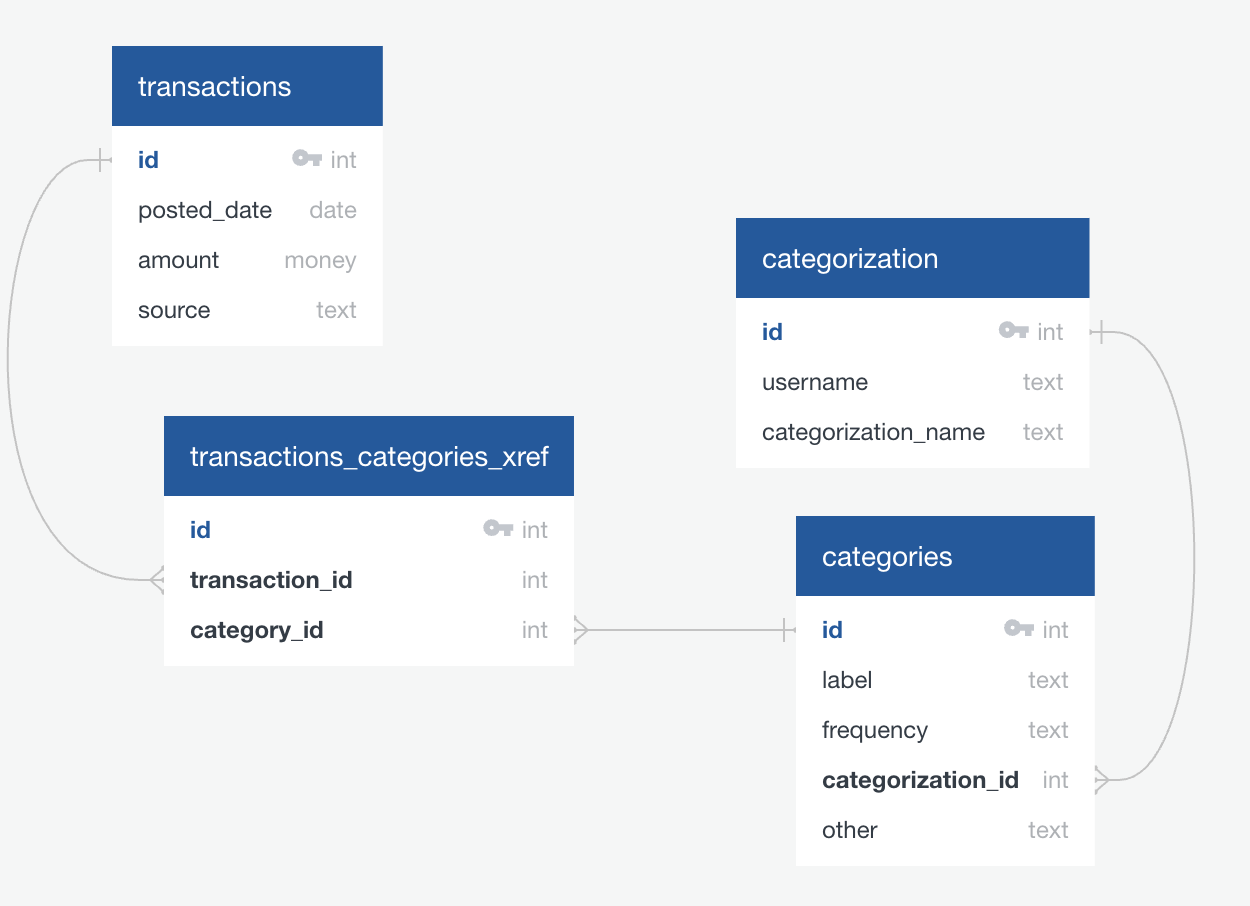
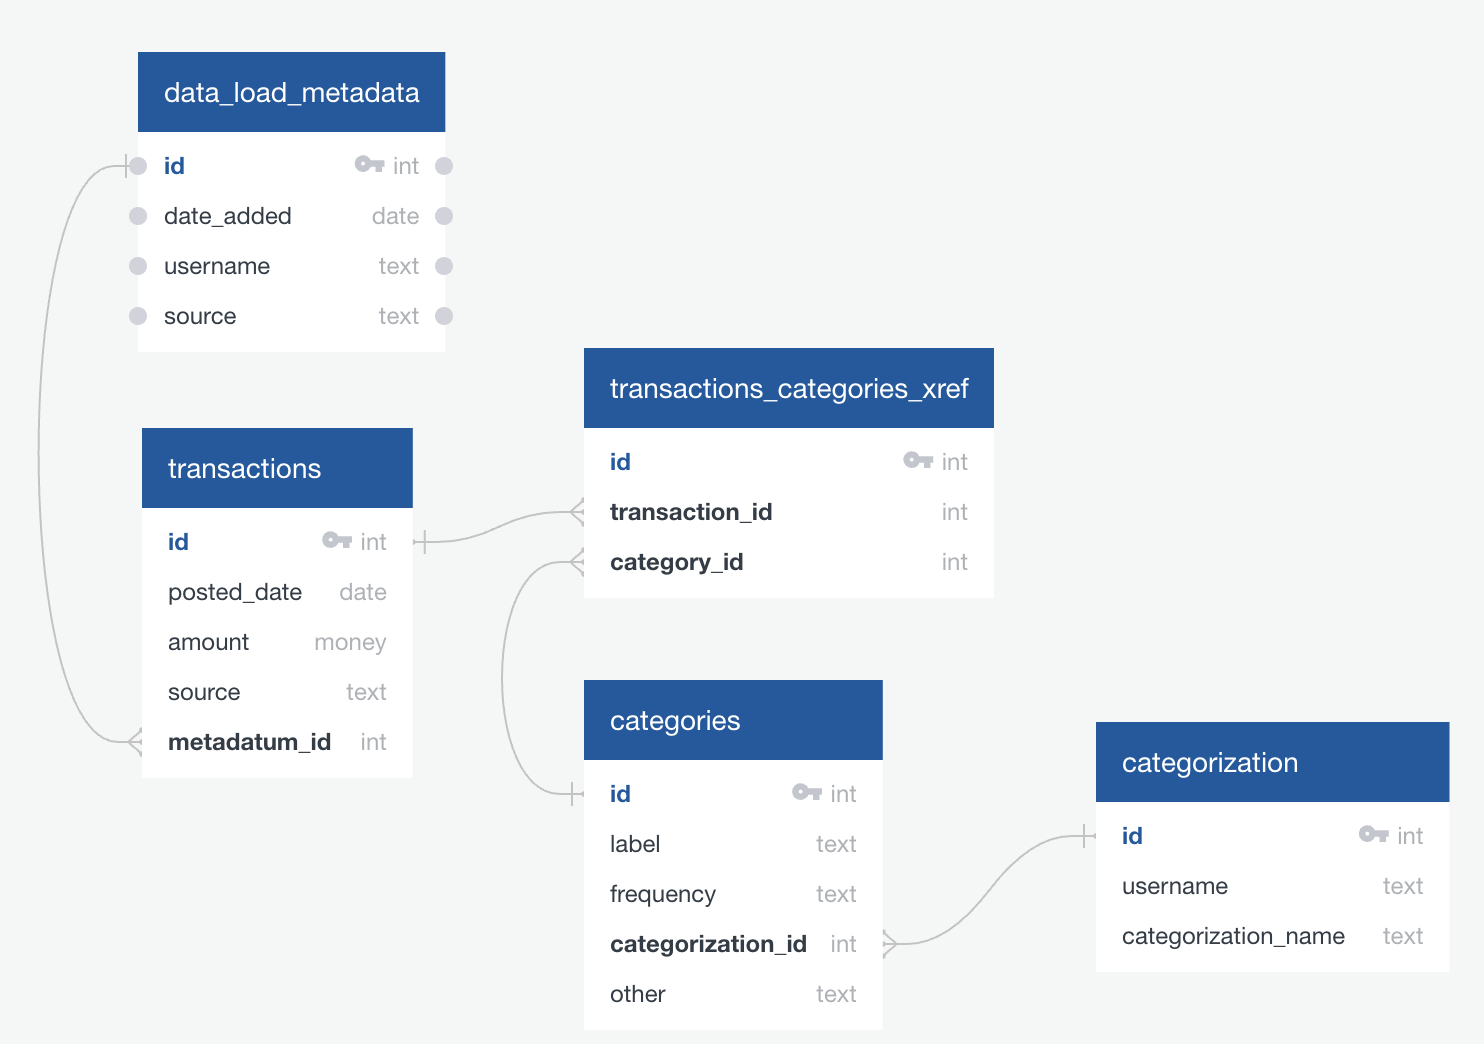
Updated schema diagram

diff --git a/README.md b/README.md
@@ -6,6 +6,10 @@
 
 WIP - schema is aspirational, no guarantee yet it matches the code! *TODO write code to convert SQL to EDL*
 
+Schema pulled from database:
+
+![Schema from db](img/schema_from_db.png)
+
 ## Inputs
 
 Users can either provide a csv of data (e.g. credit card statements downloaded from a bank), or enter transactions manually.
